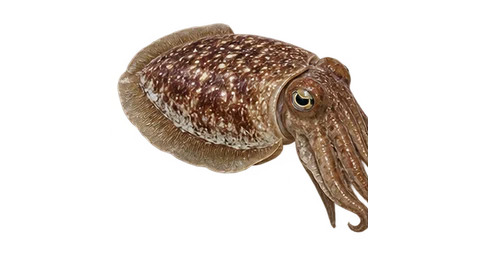
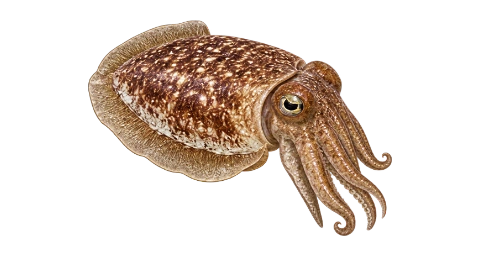
잘린 어종 이미지 12종의 윤곽 복원과 캐시 갱신
CSS로 복원할 수 없던 머리·꼬리·팔 결손을 승인된 이미지 편집으로 보완한다.
기존 경로와 계산은 유지하고 복원 자산의 버전 주소·AI 보완 출처를 제공한다.

Changed region(s): [[0.1562, 0.0625, 0.8125, 0.9375]]

diff --git a/index.html b/index.html
@@ -606,6 +606,7 @@ out geom;</pre>
       <h2 class="h2">자료 출처</h2>
       <p>온라인 일반·위성 배경: NAVER Maps JavaScript API v3 (설정한 경우). 배경 영상은 수심 자료로 사용하지 않습니다.</p>
       <div class="sources">
+    <p>어종 이미지: 방어·부시리·학공치·갑오징어·벵에돔·볼락·대구·고등어·광어·자바리·문치가자미·삼치는 잘린 원본 윤곽을 AI로 보완한 참고 이미지입니다.</p>
     <p>어종 조건 참고: 기존 수온 범위는 FishBase/AquaMaps 자료를 재사용했습니다. <a href="https://fishbase.se/Ecology/Sebastes_schlegelii" target="_blank" rel="noopener">FishBase 우럭 생태</a>, <a href="https://www.nifs.go.kr/portal/pcon0000206/systA/actionConts.do" target="_blank" rel="noopener">국립수산과학원 어종 목록</a>, <a href="https://www.fao.org/docrep/014/i1920e/i1920e.pdf" target="_blank" rel="noopener">FAO 두족류 도감</a>을 참고했습니다. 서식 안내는 기존 프로필과 일반 생태 정보를 낚시 지형으로 풀어 쓴 설명입니다. <a href="https://www.fishbase.se/summary/Mugil_cephalus.html" target="_blank" rel="noopener">FishBase 숭어 서식 정보</a>도 참고했습니다. 월별 계절·선호 수심·활동 계수는 넓은 생태 가정이며 현장 통계 검증 전입니다.</p>
     <p>해안선은 <a href="https://www.openstreetmap.org/copyright" target="_blank" rel="noopener">© OpenStreetMap 기여자</a>(ODbL)의 해안선(natural=coastline, 2026년 10월 3일 내려받음)을 남한 연안 10개 구역에서 이어 붙여 만들었고(약 1 m 허용오차로 단순화), 그 구역 밖의 내륙과 백령도 등은 통계청 SGIS 행정동 경계(공공누리 제1유형, <a href="https://github.com/vuski/admdongkor" target="_blank" rel="noopener">vuski/admdongkor</a> 가공, CC BY 4.0)를 씁니다. 북한·대마도 쪽 해안선은 뺐습니다.</p>
     <p>수심은 내 입력 → 연안해역기본도 → 해수부 수심분포도 → 공개 해도 → 국립해양조사원 자연과학용 자료(KHOA/BADA) 순으로 찾고, 없으면 GEBCO 또는 해안거리 추정을 씁니다. 내 입력은 관리자 검수가 확인되지 않은 개인 자료입니다. 같은 자료집·기준면 안에서만 보간하며 육지·구조물 너머의 자료점을 제외합니다. KHOA는 유효 자료점으로 둘러싸인 곳만 보간하고 수집 범위 밖에서는 기존 자료로 돌아갑니다. 방파제·도류제·부두·안벽, 해변·암반·절벽·암초·갯벌·등대와 이름은 <a href="https://www.openstreetmap.org/copyright" target="_blank" rel="noopener">© OpenStreetMap 기여자</a>(ODbL, 2026년 10월 3일) 자료이며 방파제·부두는 육지로 처리합니다.</p>
@@ -1781,10 +1782,13 @@ for (const fish of FISH) fish.image = `static/fish/${FISH_PHOTOS[fish.n]}.webp`;
 function fishHasBiteModel(fish) {
   return !!fish.ecology || fish.modelStatus !== 'provisional' && Number.isFinite(fish.season) && Array.isArray(fish.reg) && fish.reg.length === 4 && fish.reg.every(Number.isFinite) && Number.isFinite(fish.cur);
 }
+// 잘린 윤곽을 AI로 보완한 자산만 주소 버전을 바꿔 기존 브라우저 캐시를 갱신한다.
+const FISH_RESTORED_PHOTOS=new Set(['방어','부시리','학공치','갑오징어','벵에돔','볼락','대구','고등어','광어','자바리','문치가자미','삼치']);
 function fishPicture(fish, id) {
   const fallback = fishSVG(fish.f || { h: .3, top: '#5f7586', bot: '#e5eaee', tail: 'fork' }, id);
   if (!fish.image) return fallback;
-  return `<span class="fishMedia"><img class="fishPhoto" src="${fish.image}" alt="${fish.n}" decoding="async"><span class="fishPhotoFallback" role="img" aria-label="${fish.n} 대체 그림" hidden>${fallback}</span></span>`;
+  const restored=FISH_RESTORED_PHOTOS.has(fish.n);
+  return `<span class="fishMedia"><img class="fishPhoto" src="${fish.image}${restored?'?v=20261031-restored':''}" alt="${fish.n}"${restored?' title="잘린 원본 윤곽을 AI로 보완한 참고 이미지"':''} decoding="async"><span class="fishPhotoFallback" role="img" aria-label="${fish.n} 대체 그림" hidden>${fallback}</span></span>`;
 }
 /* IMG 실패는 버블되지 않아 캡처 단계에서 처리한다. 렌더를 반복해도 리스너는 하나다. */
 document.addEventListener('error', event => {

diff --git a/src/template.html b/src/template.html
@@ -599,6 +599,7 @@ out geom;</pre>
       <h2 class="h2">자료 출처</h2>
       <p>온라인 일반·위성 배경: NAVER Maps JavaScript API v3 (설정한 경우). 배경 영상은 수심 자료로 사용하지 않습니다.</p>
       <div class="sources">
+    <p>어종 이미지: 방어·부시리·학공치·갑오징어·벵에돔·볼락·대구·고등어·광어·자바리·문치가자미·삼치는 잘린 원본 윤곽을 AI로 보완한 참고 이미지입니다.</p>
     <p>어종 조건 참고: 기존 수온 범위는 FishBase/AquaMaps 자료를 재사용했습니다. <a href="https://fishbase.se/Ecology/Sebastes_schlegelii" target="_blank" rel="noopener">FishBase 우럭 생태</a>, <a href="https://www.nifs.go.kr/portal/pcon0000206/systA/actionConts.do" target="_blank" rel="noopener">국립수산과학원 어종 목록</a>, <a href="https://www.fao.org/docrep/014/i1920e/i1920e.pdf" target="_blank" rel="noopener">FAO 두족류 도감</a>을 참고했습니다. 서식 안내는 기존 프로필과 일반 생태 정보를 낚시 지형으로 풀어 쓴 설명입니다. <a href="https://www.fishbase.se/summary/Mugil_cephalus.html" target="_blank" rel="noopener">FishBase 숭어 서식 정보</a>도 참고했습니다. 월별 계절·선호 수심·활동 계수는 넓은 생태 가정이며 현장 통계 검증 전입니다.</p>
     <p>해안선은 <a href="https://www.openstreetmap.org/copyright" target="_blank" rel="noopener">© OpenStreetMap 기여자</a>(ODbL)의 해안선(natural=coastline, 2026년 10월 3일 내려받음)을 남한 연안 10개 구역에서 이어 붙여 만들었고(약 1 m 허용오차로 단순화), 그 구역 밖의 내륙과 백령도 등은 통계청 SGIS 행정동 경계(공공누리 제1유형, <a href="https://github.com/vuski/admdongkor" target="_blank" rel="noopener">vuski/admdongkor</a> 가공, CC BY 4.0)를 씁니다. 북한·대마도 쪽 해안선은 뺐습니다.</p>
     <p>수심은 내 입력 → 연안해역기본도 → 해수부 수심분포도 → 공개 해도 → 국립해양조사원 자연과학용 자료(KHOA/BADA) 순으로 찾고, 없으면 GEBCO 또는 해안거리 추정을 씁니다. 내 입력은 관리자 검수가 확인되지 않은 개인 자료입니다. 같은 자료집·기준면 안에서만 보간하며 육지·구조물 너머의 자료점을 제외합니다. KHOA는 유효 자료점으로 둘러싸인 곳만 보간하고 수집 범위 밖에서는 기존 자료로 돌아갑니다. 방파제·도류제·부두·안벽, 해변·암반·절벽·암초·갯벌·등대와 이름은 <a href="https://www.openstreetmap.org/copyright" target="_blank" rel="noopener">© OpenStreetMap 기여자</a>(ODbL, 2026년 10월 3일) 자료이며 방파제·부두는 육지로 처리합니다.</p>

diff --git a/src/app/12_fish.js b/src/app/12_fish.js
@@ -38,10 +38,13 @@ for (const fish of FISH) fish.image = `static/fish/${FISH_PHOTOS[fish.n]}.webp`;
 function fishHasBiteModel(fish) {
   return !!fish.ecology || fish.modelStatus !== 'provisional' && Number.isFinite(fish.season) && Array.isArray(fish.reg) && fish.reg.length === 4 && fish.reg.every(Number.isFinite) && Number.isFinite(fish.cur);
 }
+// 잘린 윤곽을 AI로 보완한 자산만 주소 버전을 바꿔 기존 브라우저 캐시를 갱신한다.
+const FISH_RESTORED_PHOTOS=new Set(['방어','부시리','학공치','갑오징어','벵에돔','볼락','대구','고등어','광어','자바리','문치가자미','삼치']);
 function fishPicture(fish, id) {
   const fallback = fishSVG(fish.f || { h: .3, top: '#5f7586', bot: '#e5eaee', tail: 'fork' }, id);
   if (!fish.image) return fallback;
-  return `<span class="fishMedia"><img class="fishPhoto" src="${fish.image}" alt="${fish.n}" decoding="async"><span class="fishPhotoFallback" role="img" aria-label="${fish.n} 대체 그림" hidden>${fallback}</span></span>`;
+  const restored=FISH_RESTORED_PHOTOS.has(fish.n);
+  return `<span class="fishMedia"><img class="fishPhoto" src="${fish.image}${restored?'?v=20261031-restored':''}" alt="${fish.n}"${restored?' title="잘린 원본 윤곽을 AI로 보완한 참고 이미지"':''} decoding="async"><span class="fishPhotoFallback" role="img" aria-label="${fish.n} 대체 그림" hidden>${fallback}</span></span>`;
 }
 /* IMG 실패는 버블되지 않아 캡처 단계에서 처리한다. 렌더를 반복해도 리스너는 하나다. */
 document.addEventListener('error', event => {

diff --git a/tests/test_fish_photos.py b/tests/test_fish_photos.py
@@ -54,6 +54,8 @@ try:
                 content = (ROOT/f['image']).read_bytes()
                 assert content[:4]==b'RIFF' and content[8:12]==b'WEBP', f
             assert page.locator('#fishGrid .fish').count()==39
+            assert page.locator('#fishGrid img[src*="?v=20261031-restored"]').count()==12
+            assert page.locator('#fishGrid img[title*="AI"]').count()==12
             assert page.locator('#fishGrid .provisional').count()==0
             assert page.locator('#fishGrid .provisional .spark').count()==0
             assert page.locator('#fishGrid .provisional .fp b').all_text_contents()==[]
@@ -77,7 +79,7 @@ try:
                     page.screenshot(path=str(OUT/f'{width}-new.png'))
                     page.evaluate('scrollTo(0,0)')
             assert '<svg' in page.evaluate('fishTestMissing()')
-            page.route('**/static/fish/*.webp',lambda r:r.abort())
+            page.route('**/static/fish/*.webp*',lambda r:r.abort())
             page.reload()
             page.wait_for_function('window.fishTestReady?.()')
             page.locator('#tabbar [data-tab="bite"]').click()

diff --git a/tests/FISH_IMAGE_RESTORATION.md b/tests/FISH_IMAGE_RESTORATION.md
@@ -1,0 +1,84 @@
+# 잘린 어종 이미지 복원
+
+기준: 502bb524af86dd174798102e9f4e484ef127793f. 사용자가 후속 대화에서 원본 복원·교체를 명시적으로 허용했다. 이전의 이미지 교체 금지는 이 범위에서 해제되었다.
+
+## 원인과 변경
+
+기존 파일은 잘린 머리·꼬리·팔이 투명 캔버스 내부에 들어 있었다. contain과 여백 조정은 그 결손을 복원하지 못한다. 이번에는 built-in image_gen의 이미지 편집으로 손상된12종의 윤곽을 보완했다. 실제 원본 사진을 되찾았거나 픽셀 단위로 원형을 보증하는 복원은 아니다. 색·무늬·몸체 세부도 일부 재합성된 참고 이미지다.
+
+나머지27종 WebP, 어종 경로/매핑, 카드 CSS, 점수·V2.1·ecology·날짜별 계산·지도·수심·오늘 탭 로직은 유지한다. 복원12종만 fishPicture에서 ?v=20261031-restored 주소를 사용해 이전 브라우저 캐시를 피한다. 원본 필드 fish.image는 바꾸지 않았다. 이미지 title과 기록 탭 자료 출처에 AI 보완임을 알린다.
+
+## 저장과 검수
+
+image_gen의 실제 투명 PNG를 작업공간에 복사하고, 전체 알파 윤곽을 432×216 안에 비율 유지하여 맞춘 뒤 480×256 WebP로 저장했다. canvas 변환은 크기·포맷 정리만 하며 내용을 그리거나 합성하지 않는다. 좌우 최소24px·상하 최소20px 여백을 갖도록 배치했다. 머리/꼬리/팔 복원 결과는 생성 이미지와 실제 카드에서 눈으로 확인했다. 아래 WebP가 최종 프로젝트 자산이다.
+
+| 최종 경로 | 크기(bytes) | 피사체 배치 크기(px) |
+|---|---|---|
+| static/fish/bangeo.webp | 39316 | 432.0×194.3 |
+| static/fish/busiri.webp | 39326 | 432.0×205.7 |
+| static/fish/hakgongchi.webp | 23948 | 432.0×103.3 |
+| static/fish/gabo-jingeo.webp | 40582 | 304.5×216.0 |
+| static/fish/bengaedom.webp | 43994 | 391.9×216.0 |
+| static/fish/bollak.webp | 44146 | 366.4×216.0 |
+| static/fish/daegu.webp | 46924 | 427.3×216.0 |
+| static/fish/godeungeo.webp | 33358 | 432.0×161.3 |
+| static/fish/gwangeo.webp | 51876 | 406.6×216.0 |
+| static/fish/munchigajami.webp | 42324 | 338.4×216.0 |
+| static/fish/jabari.webp | 47548 | 391.1×216.0 |
+| static/fish/samchi.webp | 32374 | 432.0×143.1 |
+
+## 검증
+
+390×844와1280×900: 전체39종 카드·진행바/숫자/ARIA·0/58/61/100 경계·세부점수 부재·이미지 중앙/contain·overflow 없음 검사 통과. 기준 코드와39종×24시간936개 점수가 일치했다. 복원12종과 기존 두족류 등21종 실제 카드를 눈으로 확인했다. 사진39종 디코딩/버전주소12개/AI 안내12개/이미지 실패 대체와 smoke·build consistency 통과. build missing ids: [] 및 git diff --check 통과. 기록·오늘·지도·물때·입질 다섯 탭에서 변경 범위를 확인했다. 최신 현장 생물 동정 정확성을 보증하는 사진 자료가 아니다.
+
+## 최종 프롬프트 세트
+
+내장 image_gen 사용, CLI/API fallback 사용 안 함. 각 호출은 해당 static/fish/{name}.webp 원본 한 장을 edit target으로 삼고 transparent_background=true로 실행했다. 아래는 실제 호출 프롬프트이며 번호별로 다른 자산이다.
+
+### bangeo.webp
+
+Use case: precise-object-edit. Edit target: the attached cropped fish cutout for a Korean fishing app. Restore ONLY the missing front of the head/snout of this yellowtail amberjack (방어, Seriola quinqueradiata). Preserve the existing fish's proportions, yellow lateral stripe, coloring, side-view pose facing left, realistic photo-cutout style and fin anatomy. Show ONE complete fish: entire snout, mouth, head, every fin and full forked tail inside the canvas, with generous transparent padding on all four sides (at least 10% of canvas). No clipped or flat-truncated anatomy. True alpha transparent background. Remove stray fragments or matte halos. No text, no labels, no extra fish. Landscape composition suitable for an individual small card thumbnail.
+
+### busiri.webp
+
+Use case: precise-object-edit. Asset type: a single transparent thumbnail for a Korean fishing app. Edit target: attached 부시리 (greater amberjack) photo cutout. Restore the clipped pointed upper and lower lobes of the forked tail on the right, keeping the full existing head and body. Keep the same species identity, colors, body proportions, pose, orientation, realistic photo-cutout style and existing anatomy. One complete animal only. All head, snout, fins, tail and appendage tips must be visible, no flat crop edges. Center the complete animal with at least 10% transparent padding on every side. True alpha transparent background; remove stray fragments and matte halos. No text, labels, shadows or extra animals. Landscape composition.
+
+### hakgongchi.webp
+
+Use case: precise-object-edit. Asset type: a single transparent thumbnail for a Korean fishing app. Edit target: attached 학공치 (halfbeak) photo cutout. Restore the entire cropped tail fin on the right. Preserve the distinctive long thin lower jaw/beak pointing left; do not shorten it. Keep the same species identity, colors, body proportions, pose, orientation, realistic photo-cutout style and existing anatomy. One complete animal only. All head, snout, fins, tail and appendage tips must be visible, no flat crop edges. Center the complete animal with at least 10% transparent padding on every side. True alpha transparent background; remove stray fragments and matte halos. No text, labels, shadows or extra animals. Landscape composition.
+
+### gabo-jingeo.webp
+
+Use case: precise-object-edit. Asset type: a single transparent thumbnail for a Korean fishing app. Edit target: attached 갑오징어 (cuttlefish) photo cutout. Restore the cropped arms/tentacles at the right and lower-right so every visible appendage ends naturally within the frame. Preserve the oval mottled mantle and its surrounding fin, eye and pose. Keep the same species identity, colors, body proportions, pose, orientation, realistic photo-cutout style and existing anatomy. One complete animal only. All head, snout, fins, tail and appendage tips must be visible, no flat crop edges. Center the complete animal with at least 10% transparent padding on every side. True alpha transparent background; remove stray fragments and matte halos. No text, labels, shadows or extra animals. Landscape composition.
+
+### bengaedom.webp
+
+Use case: precise-object-edit. Edit target: attached 벵에돔 (Girella punctata) cutout for a fishing app. Restore the missing outer tail fin on the right; preserve the dark slate oval body, small mouth, scales and spiny dorsal fin. Keep the existing body proportions, pose facing left, colors and realistic photo-cutout style. One complete fish only: full head, mouth, every fin and entire tail with natural tips, no flat cut edges. Center within a landscape canvas with generous true alpha transparent padding on all four sides, at least 10%. Remove stray pixels, fragments and matte halos. No text, no labels, no shadows, no background, no extra animals.
+
+### bollak.webp
+
+Use case: precise-object-edit. Edit target: attached 볼락 (Sebastes inermis) cutout for a fishing app. Restore the missing outer tail fin on the right; preserve the brown rockfish coloring, large eye, spiny dorsal fin and mottled scales. Keep the existing body proportions, pose facing left, colors and realistic photo-cutout style. One complete fish only: full head, mouth, every fin and entire tail with natural tips, no flat cut edges. Center within a landscape canvas with generous true alpha transparent padding on all four sides, at least 10%. Remove stray pixels, fragments and matte halos. No text, no labels, no shadows, no background, no extra animals.
+
+### daegu.webp
+
+Use case: precise-object-edit. Edit target: attached 대구 (Pacific cod, Gadus macrocephalus) cutout for a fishing app. Restore the missing tail fin on the right. Preserve the three dorsal fins, chin barbel, pale lateral line and mottled brown elongated body. Keep the existing body proportions, pose facing left, colors and realistic photo-cutout style. One complete fish only: full head, mouth, every fin and entire tail with natural tips, no flat cut edges. Center within a landscape canvas with generous true alpha transparent padding on all four sides, at least 10%. Remove stray pixels, fragments and matte halos. No text, no labels, no shadows, no background, no extra animals.
+
+### godeungeo.webp
+
+Use case: precise-object-edit. Edit target: attached 고등어 (chub mackerel, Scomber japonicus) cutout for a fishing app. Restore the cropped right ends of the entire forked tail. Preserve the blue-green striped back, silvery belly, streamlined body and small finlets. Keep the existing body proportions, pose facing left, colors and realistic photo-cutout style. One complete fish only: full head, mouth, every fin and entire tail with natural tips, no flat cut edges. Center within a landscape canvas with generous true alpha transparent padding on all four sides, at least 10%. Remove stray pixels, fragments and matte halos. No text, no labels, no shadows, no background, no extra animals.
+
+### gwangeo.webp
+
+Use case: precise-object-edit. Edit target: attached 광어 (olive flounder, Paralichthys olivaceus) cutout for a fishing app. Restore the clipped outer fan-shaped tail on the right. Preserve the flat oval mottled brown upper-side view, both eyes on the upper side, and continuous dorsal/anal fin outline. Keep existing proportions, colors, pose facing left and realistic photo-cutout style. One complete animal only. Full snout, head, every fin and entire tail must be visible with naturally finished tips and no flat cut edges. Landscape composition, centered with at least 10% true alpha transparent padding on all four sides. Remove stray fragments and matte halos. No text, labels, background, shadows or extra animals.
+
+### munchigajami.webp
+
+Use case: precise-object-edit. Edit target: attached 문치가자미 (marbled flounder) cutout for a fishing app. Restore the clipped outer fan-shaped tail on the right. Preserve the flat oval brown mottled upper-side view, eyes and continuous dorsal/anal fins. Keep existing proportions, colors, pose facing left and realistic photo-cutout style. One complete animal only. Full snout, head, every fin and entire tail must be visible with naturally finished tips and no flat cut edges. Landscape composition, centered with at least 10% true alpha transparent padding on all four sides. Remove stray fragments and matte halos. No text, labels, background, shadows or extra animals.
+
+### jabari.webp
+
+Use case: precise-object-edit. Edit target: attached 자바리 (longtooth grouper, Epinephelus bruneus) cutout for a fishing app. Restore the missing tail fin on the right. Preserve the stocky grouper body, wide mouth, brown marbled pattern and spiny dorsal fin. Keep existing proportions, colors, pose facing left and realistic photo-cutout style. One complete animal only. Full snout, head, every fin and entire tail must be visible with naturally finished tips and no flat cut edges. Landscape composition, centered with at least 10% true alpha transparent padding on all four sides. Remove stray fragments and matte halos. No text, labels, background, shadows or extra animals.
+
+### samchi.webp
+
+Use case: precise-object-edit. Edit target: attached 삼치 (Japanese Spanish mackerel, Scomberomorus niphonius) cutout for a fishing app. Restore the cropped ends of the forked tail on the right. Preserve the long narrow streamlined silver body, pointed head, spotted blue-gray back and finlets. Keep existing proportions, colors, pose facing left and realistic photo-cutout style. One complete animal only. Full snout, head, every fin and entire tail must be visible with naturally finished tips and no flat cut edges. Landscape composition, centered with at least 10% true alpha transparent padding on all four sides. Remove stray fragments and matte halos. No text, labels, background, shadows or extra animals.

diff --git a/src/README.md b/src/README.md
@@ -28,7 +28,7 @@
 | `09_rocks.js` | 낚시 제한구역과 갯바위 포인트 | 68 | `inBan`, `nearestRing`, `accessAt`, `addRock`, `importRocks`, `saveRocks`, `loadRocks`, `rockInfoHTML` |
 | `10_tide.js` | 조석: 예보지점·물때·조위 보간 | 40 | `tideAt`, `getTide` |
 | `11_current.js` | 조류 예보(물돌이·최강)와 해 뜨고 지는 시각 | 66 | `loadCrnt`, `crntAt`, `crntDay`, `nearestCrnt`, `flowU`, `sunTimes` |
-| `12_fish.js` | 대상어 39개 표시명·사진 매핑, 모델 사용 가능 판정, 이미지 실패 대체 그림 | 가변 | `fishHasBiteModel`, `fishPicture`, `fishSVG` |
+| `12_fish.js` | 대상어 39개 표시명·사진 매핑, AI 보완 12종 버전 주소, 모델 판정과 이미지 실패 대체 그림 | 가변 | `fishHasBiteModel`, `fishPicture`, `fishSVG` |
 | `12b_ecology.js` | 39개 표시명의 생태 프로필·12개월 단계값·우럭 별칭 공유·연속 적합도 | 가변 | `ecologySeason`, `ecologyRange`, `ecologyLight`, `ecologyLightName` |
 | `12c_habitats.js` | 39종 주 서식지·낚시 포인트 유형 문구와 별칭 공유 | 가변 | `FISH_HABITAT_TEXT` |
 | `13_forecast.js` | 포인트 목록, 바람·파고·수온, 날짜 선택, 조석 곡선·이동 성공 후 선택 확정 | 가변 | `kmaGrid`, `wxCell`, `wxAt`, `sstForLocation`, `sstFor`, `buildPoints`, `selectPoint`, `renderDays`, `setDay` 외 |
@@ -101,3 +101,5 @@
 입질 카드의 `scoreProgress`는 표시된 종합점수를 0~100 가로 진행바와 ARIA 값으로 그대로 사용합니다. 카드 사진은 공통 3:2 영역의 사방 6% 안전 영역 안에서 최대 94%×92% 크기로 비율을 유지하며 중앙에 전체 표시합니다. 39종 자산 매핑과 점수 계산은 유지합니다.
 
 카드의 서식/오늘 조건 세부점수 문구는 숨기며 `habitatScore`/`dynamicScore` 계산·진단은 유지합니다. 사진의 원본 윤곽 결손과 표시 여백 검토는 `tests/FISH_CARD_UI_AUDIT.md`를 참고하세요.
+
+원본 잘림이 확인된 12종은 사용자 승인 후 AI로 윤곽을 보완했습니다. 같은 WebP 경로를 유지하고 `FISH_RESTORED_PHOTOS`에 한해 주소 버전과 설명을 붙입니다. 복원 과정과 프롬프트는 `tests/FISH_IMAGE_RESTORATION.md`에 기록합니다.

diff --git a/tests/FISH_CARD_UI_AUDIT.md b/tests/FISH_CARD_UI_AUDIT.md
@@ -1,5 +1,7 @@
 # 입질 카드 표시·원본 자산 점검
 
+> 이 문서는 복원 전 상태의 점검 기록이다. 이후 사용자 승인으로 손상12종을 AI 보완 자산으로 교체했다. 현재 상태·프롬프트·검증은 [복원 기록](FISH_IMAGE_RESTORATION.md)을 본다.
+
 기준 커밋: 4c3736bbb9374373b16a46752873e7ab49938747. 카드의 서식/오늘 조건 세부점수 문구와 스타일만 제거하고 habitatScore/dynamicScore 계산·진단은 유지했다. 종합점수·배지·연속 진행바·최고 시각/점수·생태 설명·현재 이유는 유지한다.
 
 ## 잘림 원인과 표시 변경
